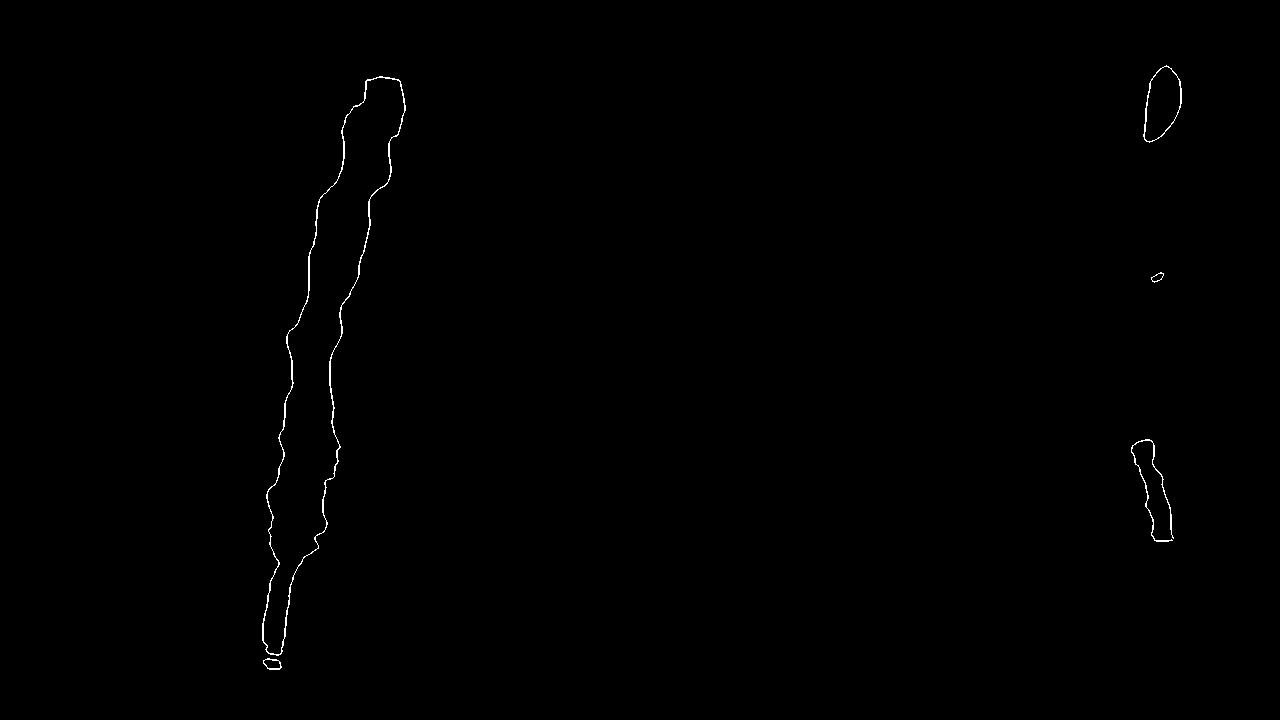
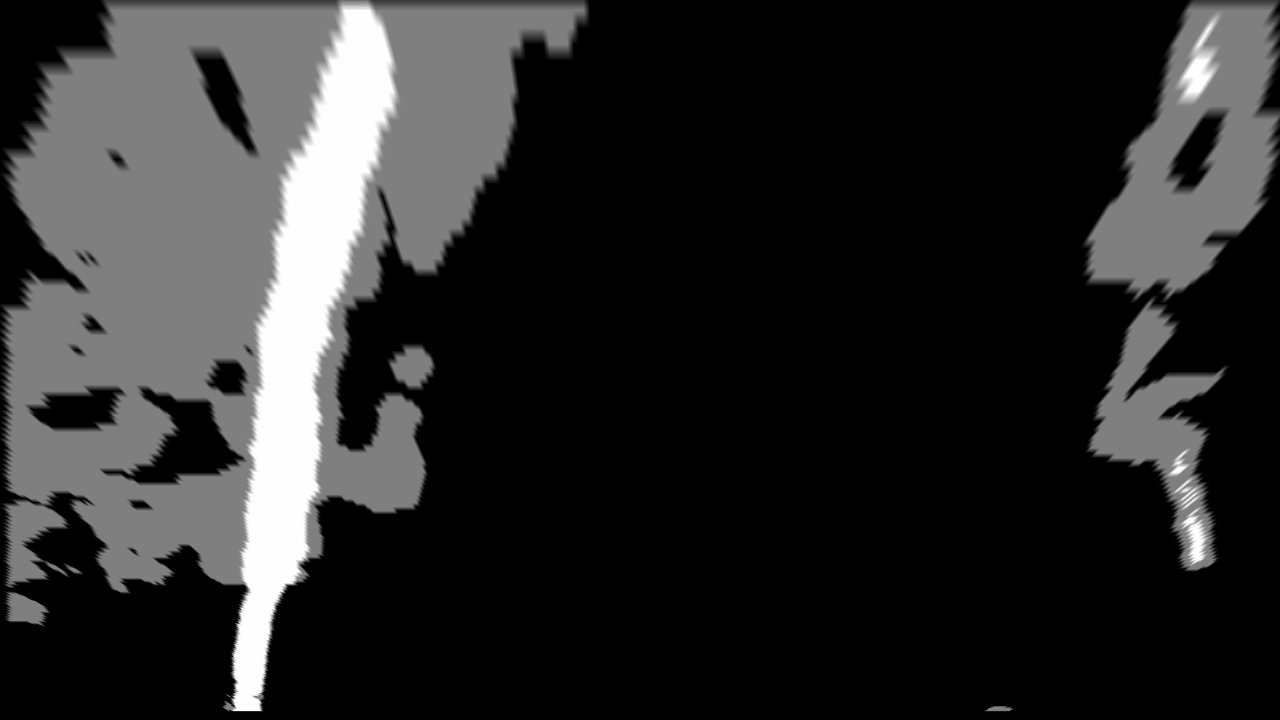
cktp2

diff --git a/helper2.py b/helper2.py
@@ -53,7 +53,7 @@ def sobel_thres(img, sobel_kernel=3):
     dir_bin[condition] = 1
 
     combined_bin = np.zeros_like(img)
-    condition = ((mag_bin == 1) | (dir_bin == 1))
+    condition = (mag_bin == 1) | (dir_bin == 1) | (img == 1)
     combined_bin[condition] = 255
 
     return np.dstack([combined_bin] * 3)
@@ -63,7 +63,6 @@ def edge_detection(rgb_img, s_only=False):
     R = rgb_img[:, :, 0]
     r_binary = binary_thres(R)
     r_edge = sobel_thres(r_binary)  # helper.canny(img)
-    return r_edge
 
     hls = cv2.cvtColor(rgb_img, cv2.COLOR_RGB2HLS)
     S = hls[:, :, 2]
@@ -75,7 +74,7 @@ def edge_detection(rgb_img, s_only=False):
     if not s_only:
         final = final // 2 + r_edge // 2
 
-    return np.dstack([final] * 3)
+    return final
 
 
 def undistort_img(img):
@@ -85,9 +84,7 @@ def undistort_img(img):
     return cv2.undistort(img, mtx, dist, None, None)
 
 
-def bird_eye_view(img, src_corners, w, h, offset=50):
-    print('W', w)
-    print('H', h)
+def bird_eye_view(img, src_corners, w, h, offset=10):
     dst_corners = np.array([(offset, offset), (w - offset, offset),
                             (w - offset, h - offset),
                             (offset, h - offset)]).astype('float32')

diff --git a/pipe.py b/pipe.py
@@ -123,16 +123,15 @@ def detect_lane2(rgb_img, state_id=None):
     ])
 
     img = helper2.undistort_img(rgb_img)
-    img = helper.region_of_interest(img, [region])
     img = helper.gaussian_blur(img, 5)
+    img = helper2.edge_detection(img)
+    img = helper.region_of_interest(img, [region])
     img = helper2.bird_eye_view(img, region.astype('float32'), w, h)
-    img = helper2.edge_detection(img, True)
 
-    # thresh = (0, 255)
-    # binary = np.zeros_like(S)
-    # binary[(S > thresh[0]) & (S <= thresh[1])] = 1
-    # img.dtype = 'uint8'
-    # img = helper.canny(img, 10, 30)
+    histogram = np.sum(img[img.shape[0]//2:,:], axis=0)
+    plt.plot(histogram)
+    plt.show()
+
 
     return img
 
